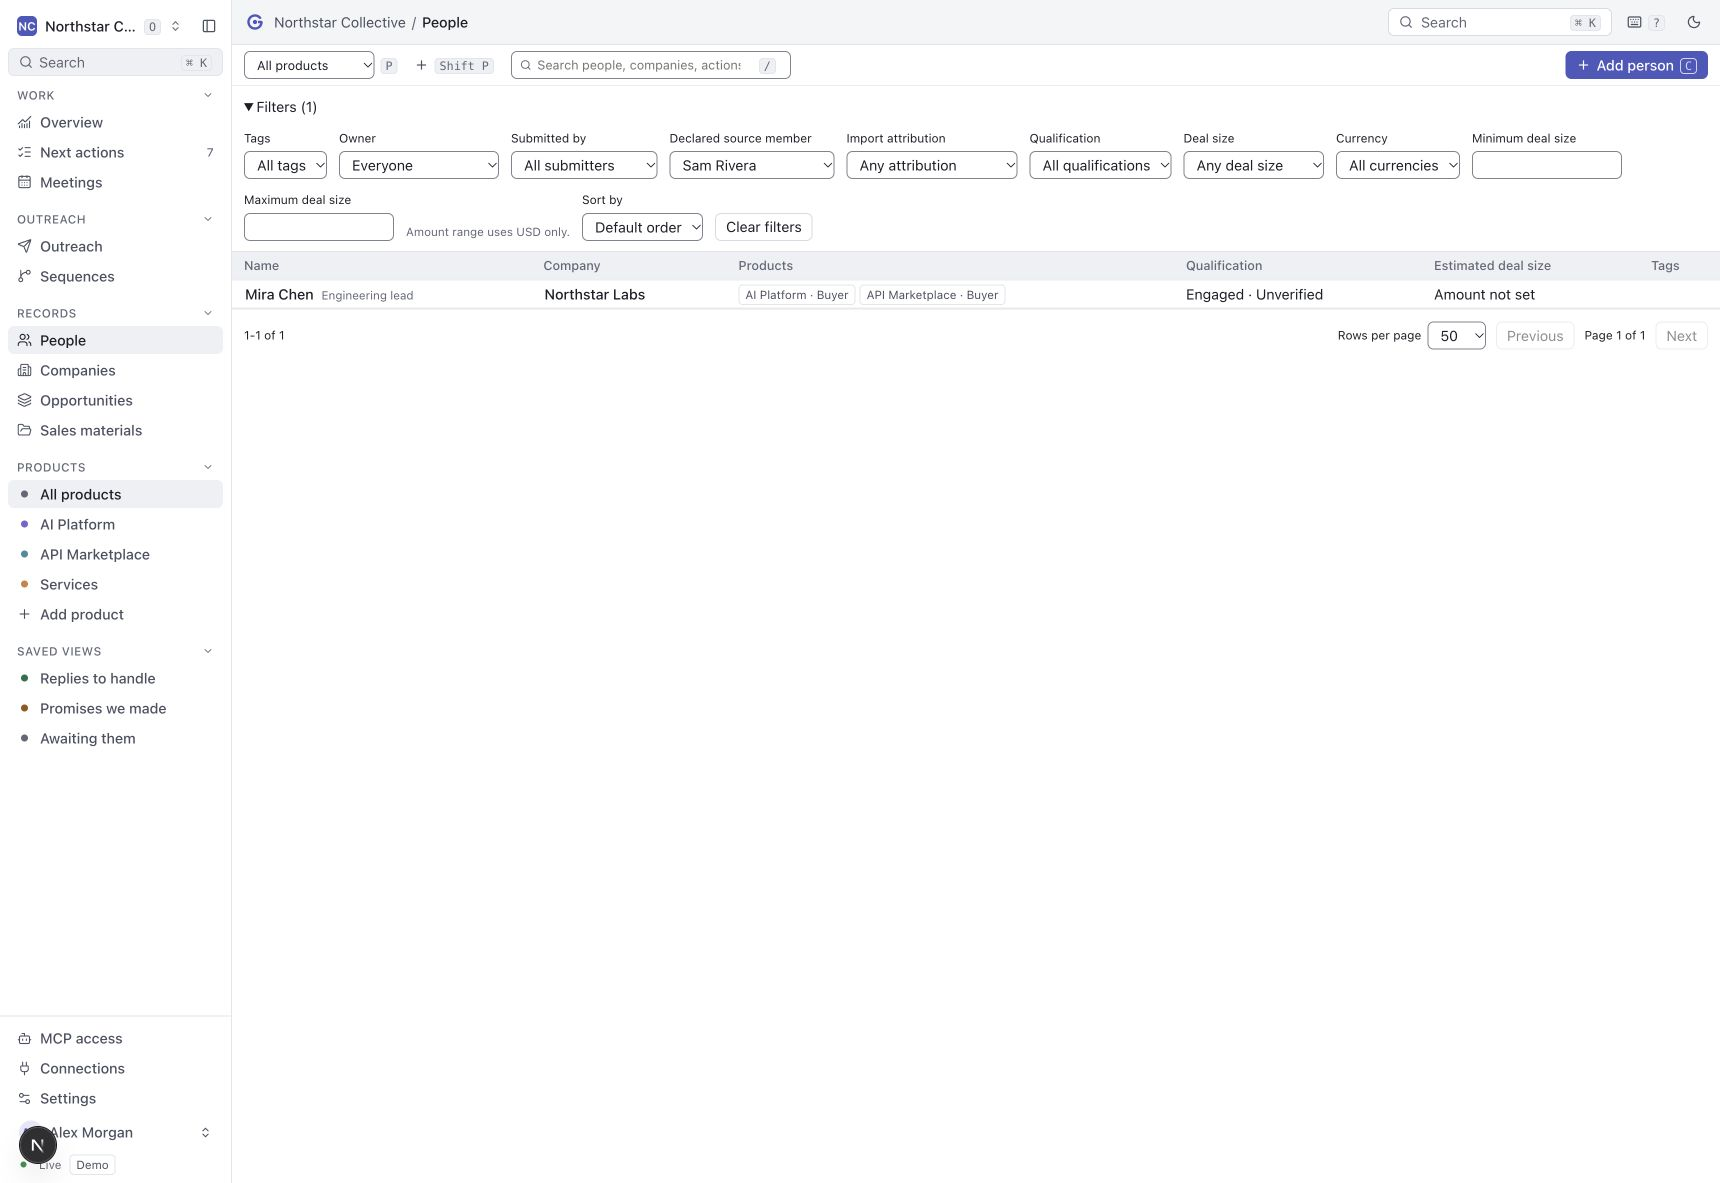
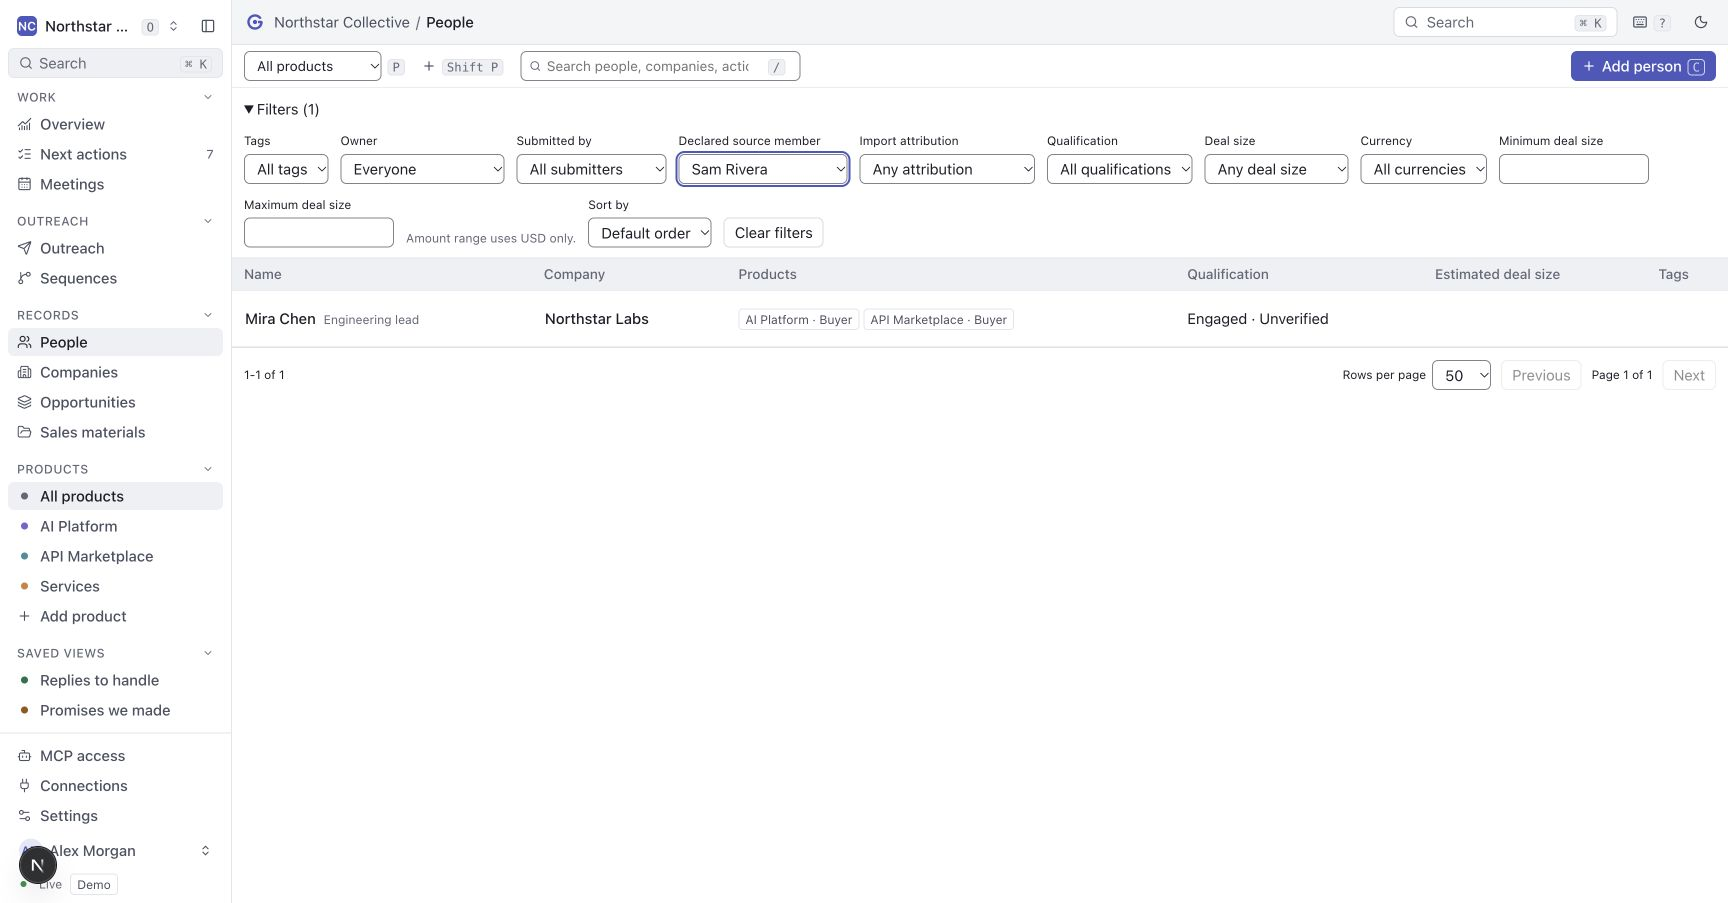
Refresh attribution review evidence for the latest contact workspace

diff --git a/docs/crm-request-audit-2026-10-07.md b/docs/crm-request-audit-2026-10-07.md
@@ -46,9 +46,9 @@ archived people and products.
 
 ## Validation of this review
 
-The pre-merge Node 22 local run passes all 110 test files: 934 tests passed and two
-environment-dependent PostgreSQL tests skipped. TypeScript, Biome and the production
-build pass. The GitHub PostgreSQL job separately exercises the production driver.
+After integrating main at ec9fb92, the Node 22 local run passes all 116 test files:
+957 tests passed and two environment-dependent PostgreSQL tests skipped. TypeScript,
+Biome and the production build pass. The GitHub PostgreSQL job separately exercises the production driver.
 Local browser review confirms toolbar filtering retains Companies, sidebar product
 selection opens Overview, contributor filtering returns the expected fictional
 contact, and the contact view exposes bounded notes and probability-weighted revenue.
